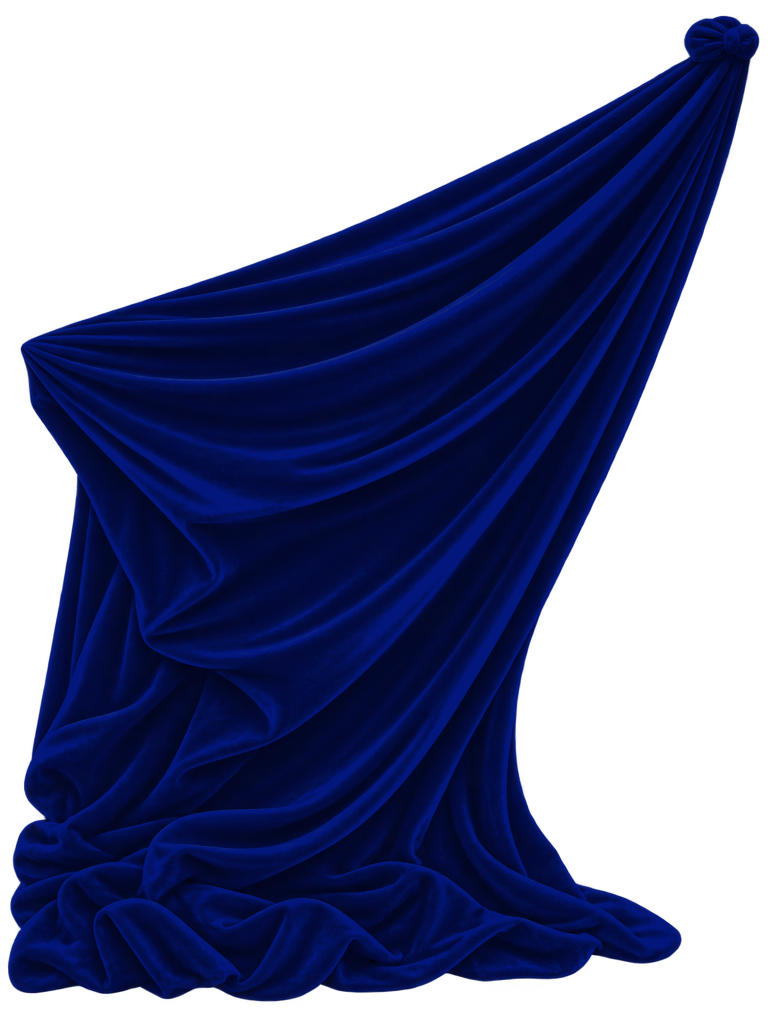
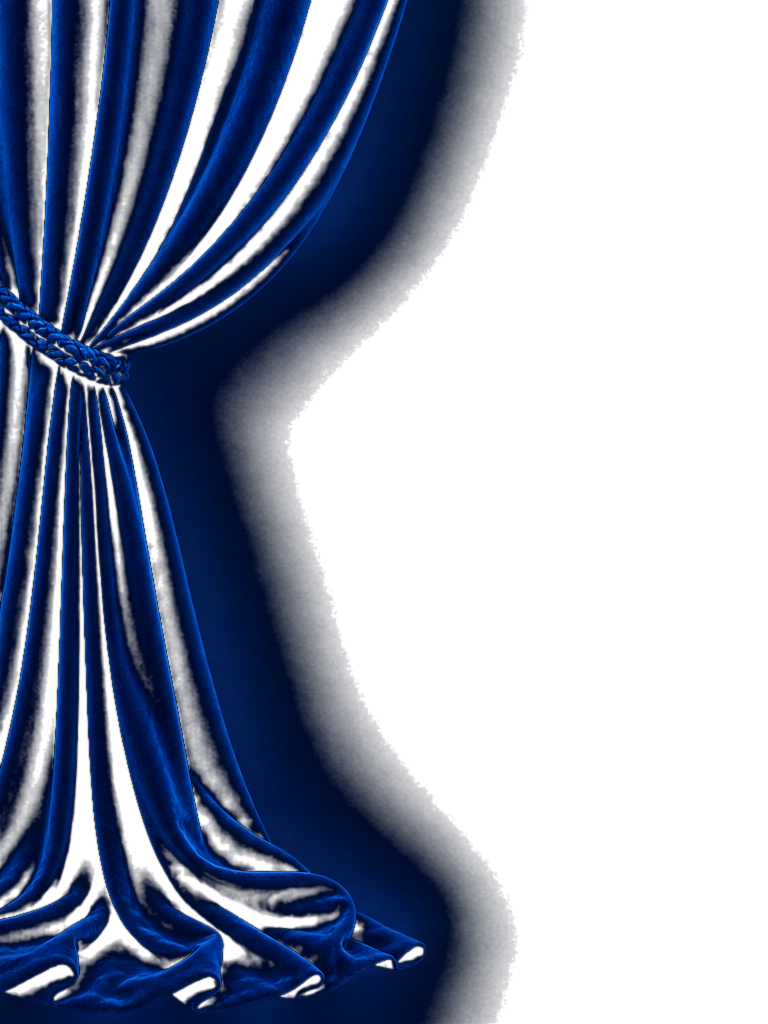
d

diff --git a/css/style.css b/css/style.css
@@ -7722,7 +7722,7 @@ a {
     position: absolute;
 
     left: 50%;
-    bottom: 78px;
+    bottom: 40px;
 
     width: 92%;
     max-width: 520px;
@@ -7762,8 +7762,10 @@ a {
 
     z-index: 4;
 
+    /* Product lowered slightly onto the podium */
     transform:
-        translate3d(0, -8px, 0);
+        translate3d(0, 28px, 0);
+
     transform-origin: center bottom;
 
     will-change:
@@ -8586,50 +8588,112 @@ a {
 
 
 /* =========================================================
-   LEFT SWAG
+   FOUR-HEADED NAVY VELVET OVERHEAD CURTAIN
 ========================================================= */
 
-.rc2-valance-left {
+.rc2-velvet-valance {
+    position: absolute;
 
+    left: -2%;
+    right: -2%;
+    top: -1%;
+
+    height: 145px;
+
+    z-index: 7;
+
+    pointer-events: none;
+}
+
+
+/* =========================================================
+   FOUR VELVET SWAGS
+========================================================= */
+
+.rc2-valance-panel {
+    position: absolute;
+
+    top: 0;
+
+    height: 120px;
+
+    background:
+        linear-gradient(
+            180deg,
+            #071a35 0%,
+            #06152d 30%,
+            #061329 60%,
+            #030d20 100%
+        );
+
+    box-shadow:
+        inset 0 3px 6px rgba(255,255,255,.045),
+        inset 0 -12px 18px rgba(0,0,0,.34),
+        0 8px 16px rgba(0,0,0,.34);
+}
+
+
+/* =========================================================
+   FOUR OVERLAPPING HEADS
+========================================================= */
+
+.rc2-valance-1 {
     left: 0;
-
-    width: 36%;
-
-    border-radius:
-        0 0 52% 52% / 0 0 72% 72%;
-
+    width: 27%;
 }
 
-
-/* =========================================================
-   CENTER SWAG
-========================================================= */
-
-.rc2-valance-center {
-
-    left: 32%;
-
-    width: 36%;
-
-    border-radius:
-        0 0 52% 52% / 0 0 72% 72%;
-
+.rc2-valance-2 {
+    left: 24%;
+    width: 27%;
 }
 
+.rc2-valance-3 {
+    left: 49%;
+    width: 27%;
+}
 
-/* =========================================================
-   RIGHT SWAG
-========================================================= */
-
-.rc2-valance-right {
-
+.rc2-valance-4 {
     right: 0;
+    width: 27%;
+}
 
-    width: 36%;
 
+/* =========================================================
+   DEEP CURVED SWAG
+========================================================= */
+
+.rc2-valance-panel {
     border-radius:
-        0 0 52% 52% / 0 0 72% 72%;
+        0 0 50% 50% / 0 0 72% 72%;
+}
 
+
+/* =========================================================
+   VELVET FOLDS
+========================================================= */
+
+.rc2-valance-panel::after {
+    content: "";
+
+    position: absolute;
+
+    inset: 0;
+
+    border-radius: inherit;
+
+    background:
+        repeating-linear-gradient(
+            90deg,
+            transparent 0%,
+            rgba(40,75,145,.12) 4%,
+            transparent 9%,
+            rgba(0,0,0,.18) 14%,
+            transparent 20%
+        );
+
+    opacity: .9;
+
+    pointer-events: none;
 }
 
 

diff --git a/index.html b/index.html
@@ -280,16 +280,15 @@
 >
 
 <!-- =====================================================
-     TRIPLE-HEADED NAVY VELVET OVERHEAD VALANCE
+     FOUR-HEADED NAVY VELVET OVERHEAD VALANCE
 ===================================================== -->
 
 <div class="rc2-velvet-valance" aria-hidden="true">
 
-    <span class="rc2-valance-panel rc2-valance-left"></span>
-
-    <span class="rc2-valance-panel rc2-valance-center"></span>
-
-    <span class="rc2-valance-panel rc2-valance-right"></span>
+    <span class="rc2-valance-panel rc2-valance-1"></span>
+    <span class="rc2-valance-panel rc2-valance-2"></span>
+    <span class="rc2-valance-panel rc2-valance-3"></span>
+    <span class="rc2-valance-panel rc2-valance-4"></span>
 
 </div>
 

diff --git a/js/app.js b/js/app.js
@@ -1268,16 +1268,16 @@ const sideRotate =
 
 
             product.style.transform =
-                `
-                translate3d(
-                    0,
-                    ${-4 - (5 * reveal)}px,
-                    0
-                )
-                scale(
-                    ${1 + (.018 * reveal)}
-                )
-                `;
+    `
+    translate3d(
+        0,
+        ${35 - (6 * reveal)}px,
+        0
+    )
+    scale(
+        ${1 + (.022 * reveal)}
+    )
+    `;
 
         }
 
